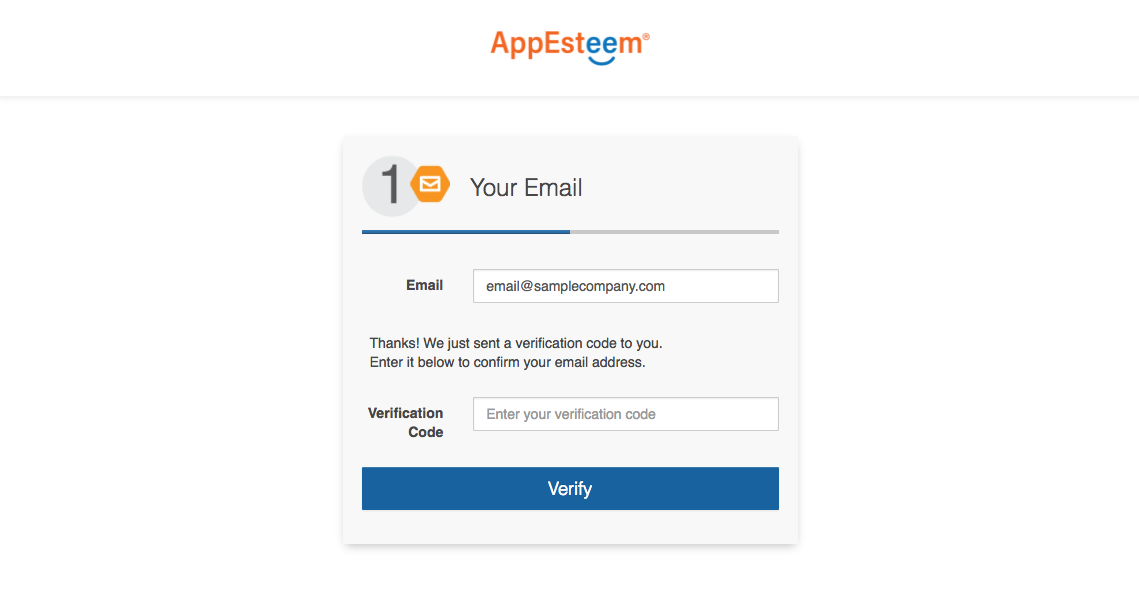
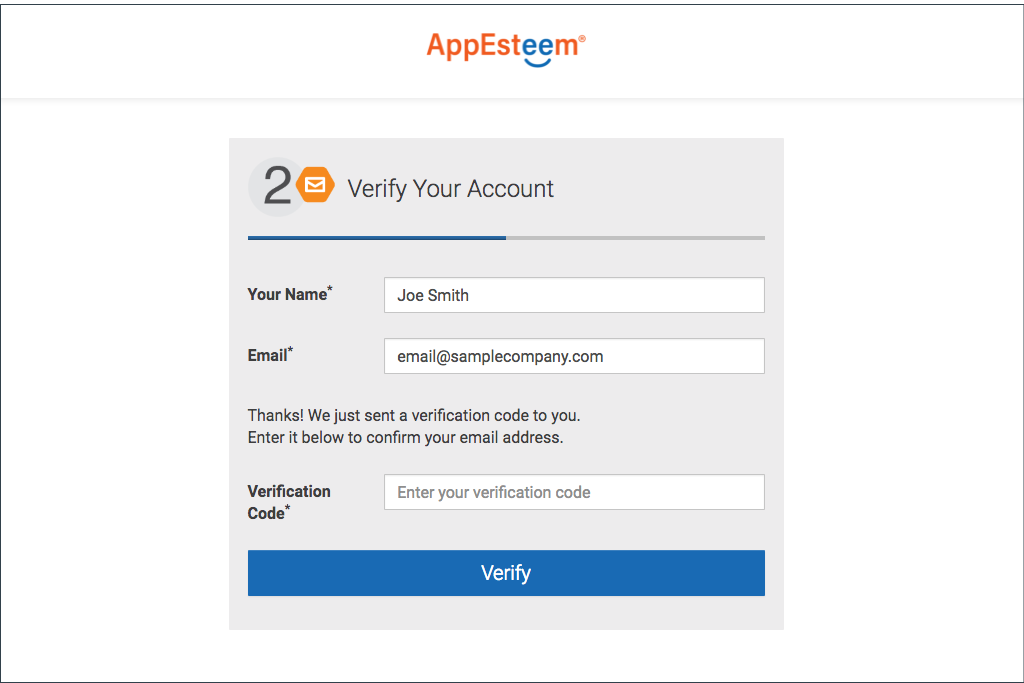
Update with Master Service Agreement screenshots and words, update Sign-up screenshots and words

diff --git a/createaccount.md b/createaccount.md
@@ -11,15 +11,15 @@ In order to perform any operations on the AppEsteem customer portal, an account 
 
     ![AppEsteem Sign In page](./media/createAccount_2.png)
 
-3. Clicking on **Create Account** will present you with a prompt for your email. Enter your email address and click the **Get Vertification Code** button. The email address is used to identify you to the AppEsteem customer portal. Enter an email address where you receive email as a verification code will be sent to this email address and you must be able to enter this code into the next page
+3. Clicking on **Create Account** will present you with a prompt for your name and email. Enter Your Name and Email address, read Terms of Use, read Privacy Policy and check the *"I agree ..."* checkbox. You also can click on the *'I’d like to receive email updates from AppEsteem ...'* checkbox if you would like to.  Click the **Get Vertification Code** button. The email address is used to identify you to the AppEsteem customer portal. Enter an email address where you receive email as a verification code will be sent to this email address and you must be able to enter this code into the next page.
 
     ![AppEsteem Email Verification page](./media/createAccount_3.png)
 
-4. After a few moments, please check your email for the verification code sent from AppEsteem. Enter the Verification Code you received by email and click the Verify button. Once the code has been verified, you'll be advanced to the next page
+4. After a few moments, please check your email for the verification code sent from AppEsteem. Enter the Verification Code you received by email and click the **Verify** button. Once the code has been verified, you'll be advanced to the next page.
 
     ![AppEsteem Enter Verification Code page](./media/createAccount_4.png)
 
-5. Enter Your Name, Password, Confirm Password and click the **Submit** button. When both passwords match, you will be directed to the signing page.
+5. Enter Password, Confirm Password and click the **Submit** button. When both passwords match, you will be directed to the signing page.
 
     ![User password prompt page](./media/createAccount_5.png)
 

diff --git a/registercompany.md b/registercompany.md
@@ -14,14 +14,14 @@ This page will guide you through the creation of a company on AppEsteem's custom
 
     ![Choosing your Commitment Level ](./media/registerCompany3.png)
 
-4. Next step is to sign the AppEsteem Certification Agreement. Under Agreements click on *“Agree to the Certification Agreement”*
+4. Next step is to sign the Master Services Agreement. Under Agreements click on the *“Agree to the Master Services Agreement”*
 
     ![Signing Agreements](./media/agreeCertificationAgreement_1.png)
 
-5. Read the Certification Agreement by clicking on the **Certification Agreement** link, check the *"I agree with the Certification Agreement"* checkbox and click the **Next** button.
+5. Read the Master Services Agreement by clicking on the **Master Services Agreement** link, check the *"I agree with the Master Services Agreement"* checkbox and click the **Next** button.
 
     ![Sign Sample Agreement](./media/agreeCertificationAgreement_2.png)
 
-6. Upon successfully signing the Certification Agreement you will see the check mark next to the *"Agree to the Certification Agreement”* link on the Portal page.
+6. Upon successfully signing the Master Services Agreement you will see the check mark next to the *"Agree to the Master Services Agreement”* link on the Portal page.
 
     ![Completed Signing Agreements](./media/agreeCertificationAgreement_3.png)

diff --git a/registerapplication.md b/registerapplication.md
@@ -24,7 +24,7 @@
 
     ![Premium Support](./media/registerApplication_6.png)
 
-4. Request Application Certification. Upload application executables and click the **Next** button
+4. Request Application Certification. Upload application executables, enter Version Change Log and click the **Next** button
 
     ![Certify Application Step 1](./media/registerApplication_8.png)
 
@@ -38,7 +38,7 @@
 
     ![Certify Application Step 3](./media/registerApplication_11.png)
 
-    **NOTE:** At any step of the Request Application Certification, you can click the **Save for later** button. To resume the Certification later you would need to go to the Application List page and click the *Request App Review* link for the correspondent application version.
+    **NOTE:** At any step of the Request Application Certification, you can click the **Save for later** button. To resume the Certification later you would need to go to the Application List page and click the *Submit App for Review* link for the correspondent application version.
 
     ![Application List](./media/registerApplication_13.png)
 
